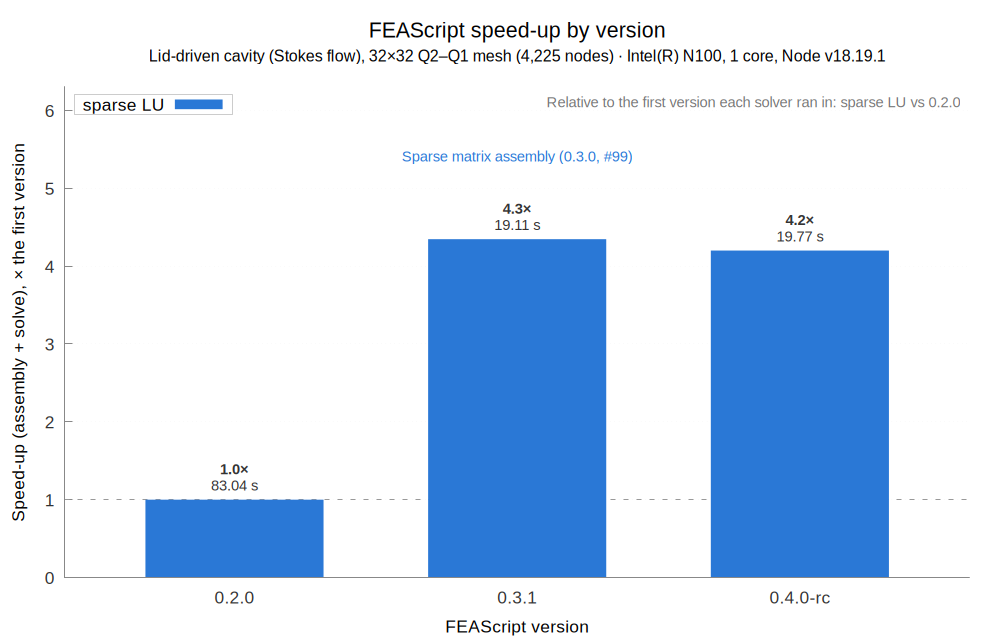
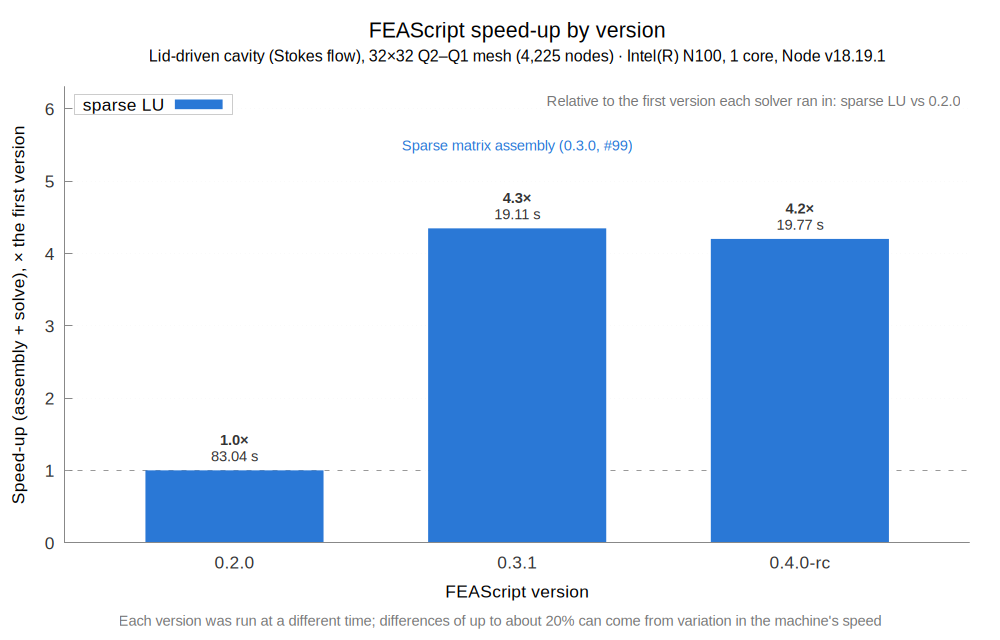
Note that machine speed varies between runs of different versions
Each FEAScript version is benchmarked at a different time, and the
speed of the Intel N100 varies over time: the same build ran up to
about 20% slower an hour later (0.3.1 and 0.4.0-rc take the same time
on the 32x32 cavity when run alternately). Say so on the history plots
and in the READMEs, so small differences between versions are not
read as regressions.

diff --git a/make_history.py b/make_history.py
@@ -103,6 +103,8 @@ set boxwidth {width * 0.9:.3f}
 set xrange [-0.6:{len(rows) - 0.4}]; set yrange [0:{ymax:.4g}]; set xtics scale 0
 set ylabel 'Speed-up (assembly + solve), × the first version'; set xlabel 'FEAScript version'
 set key top left box lc rgb '#cccccc' opaque
+set bmargin 5
+set label "Each version was run at a different time; differences of up to about 20% can come from variation in the machine's speed" at screen 0.5,0.03 center tc rgb '#777777' font ',11'
 set label "Relative to the first version each solver ran in: {baselines}" at graph 0.99,0.97 right tc rgb '#777777' font ',11'
 set arrow from graph 0, first 1 to graph 1, first 1 nohead dt 2 lc rgb '#999999'
 {notes}plot {series}

diff --git a/README.md b/README.md
@@ -37,6 +37,7 @@ To compare the two codes on the same terms, the benchmarks run Elmer the way FEA
 - **End-to-end time:** on small meshes FEAScript can finish first, because the Elmer build used here (an MPI-enabled build) spends about 2 s starting MPI at the beginning of every run, even with one process. This is a fixed start-up cost, not solver speed, and it becomes negligible for the larger problems Elmer is designed for
 - **Elmer settings:** the Elmer cases use standard settings and solvers (UMFPACK, MUMPS, BiCGStab with ILU0) chosen by the FEAScript team, not tuned by Elmer experts. Other settings may well make Elmer faster
 - **Timer resolution:** Elmer reports its solver time to 0.01 s, so its times on the smallest meshes are rounded
+- **Comparing FEAScript versions:** each version is benchmarked at a different time, and the speed of the machine varies over time (a low-power CPU such as the Intel N100 changes its clock speed with temperature and load). On the Intel N100, the same FEAScript build ran up to about 20% slower an hour later. Differences of that size between versions are within this variation; the speed-ups of 4 to 46 times in the history plots are not
 
 We are grateful to the Elmer developers for making such capable software freely available.
 

diff --git a/creepingFlow2DLidDrivenCavity/README.md b/creepingFlow2DLidDrivenCavity/README.md
@@ -64,6 +64,7 @@ To keep the comparison fair, every timed process is pinned to one core (`taskset
 Notes on reading the times:
 
 - **Browsers:** the benchmark runs in Node, which uses the same V8 JavaScript engine as Chrome and other Chromium-based browsers. Browsers with other engines, such as Firefox, can be slower
+- **Comparing versions:** each version is benchmarked at a different time, and the speed of the machine varies over time, by up to about 20% on the Intel N100. Smaller differences between versions in the history plot are within this variation
 - **JIT warm-up:** each FEAScript time comes from a fresh process, so it includes JIT warm-up. Repeats inside the same process are in the `warmWall` column
 
 ## How to run the benchmark

diff --git a/heatConduction2DFin/README.md b/heatConduction2DFin/README.md
@@ -65,6 +65,7 @@ To keep the comparison fair, every timed process is pinned to one core (`taskset
 Notes on reading the times:
 
 - **Browsers:** the benchmark runs in Node, which uses the same V8 JavaScript engine as Chrome and other Chromium-based browsers. Browsers with other engines, such as Firefox, can be slower
+- **Comparing versions:** each version is benchmarked at a different time, and the speed of the machine varies over time, by up to about 20% on the Intel N100. Smaller differences between versions in the history plot are within this variation
 - **JIT warm-up:** each FEAScript time comes from a fresh process, so it includes JIT warm-up. Repeats inside the same process are in the `warmWall` column
 
 ## How to run the benchmark
